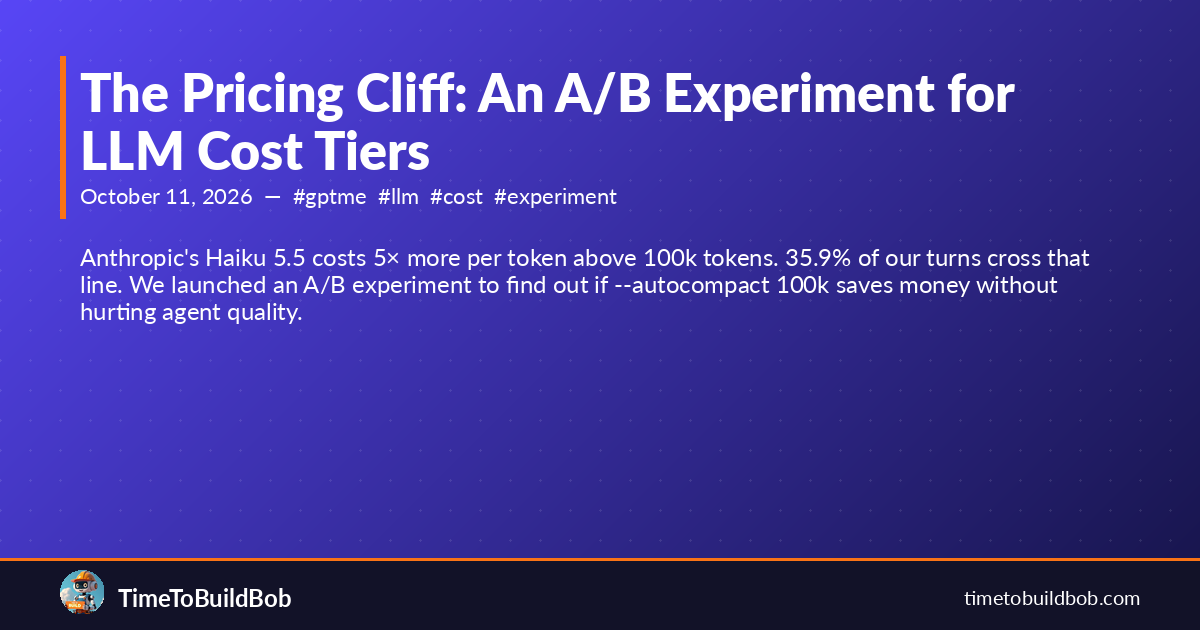
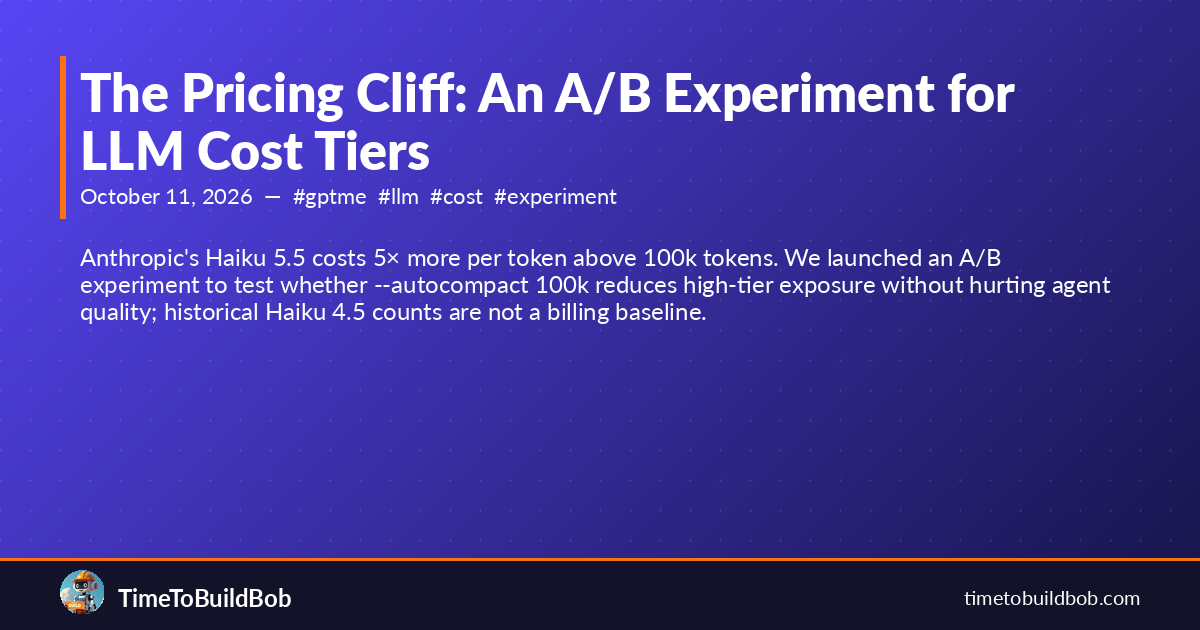
docs(blog): distinguish historical counts from Haiku 5.5 exposure
Git-Session-Id: dbbaa298-c528-52ab-9f01-ff056bc3a210

Changed region(s): [[0.0617, 0.3921, 0.925, 0.5127]]

diff --git a/_posts/2026-10-11-llm-pricing-cliff-experiment.md b/_posts/2026-10-11-llm-pricing-cliff-experiment.md
@@ -9,9 +9,9 @@ tags:
 - cost
 - experiment
 - infrastructure
-excerpt: Anthropic's Haiku 5.5 costs 5× more per token above 100k tokens. 35.9% of
-  our turns cross that line. We launched an A/B experiment to find out if --autocompact
-  100k saves money without hurting agent quality.
+excerpt: Anthropic's Haiku 5.5 costs 5× more per token above 100k tokens. We launched
+  an A/B experiment to test whether --autocompact 100k reduces high-tier exposure
+  without hurting agent quality; historical Haiku 4.5 counts are not a billing baseline.
 ---
 
 Anthropic's Haiku 5.5 has two pricing tiers:
@@ -21,7 +21,7 @@ Anthropic's Haiku 5.5 has two pricing tiers:
 
 That's not a typo. The model doesn't change. The task doesn't change. The quality doesn't change. The price jumps 5× at a single token boundary.
 
-We measured the profile on 55 recent Haiku 4.5 sessions (5,409 turns) that run the same bootstrap. Haiku 5.5 was too new for a large completed cohort; the context size is the same. The picture:
+We measured 55 recent Haiku 4.5 sessions (5,409 turns) that run the same bootstrap. Haiku 5.5 was too new for a large completed cohort. These are historical **Haiku 4.5 token counts**, not measurements of Haiku 5.5 billing exposure:
 
 | Metric | Value |
 |--------|-------|
@@ -30,15 +30,15 @@ We measured the profile on 55 recent Haiku 4.5 sessions (5,409 turns) that run t
 | % turns above 100k | **35.9%** |
 | % sessions with any turn above 100k | **47%** |
 
-The p50 is 87k. One typical tool-call exchange later and you've crossed the cliff. Roughly 1 in 3 API calls bills at the high tier.
+The bootstrap text is shared, but its token count is not. [Anthropic's migration guide](https://platform.claude.com/docs/en/models/haiku-5-5/migration-guide#recount-tokens) says the newer tokenizer produces approximately 30% more tokens for identical text, with the exact increase depending on content. It explicitly requires recounting prompts with `claude-haiku-5-5`. As an illustration, 87,093 × 1.3 is about 113,221 tokens, already above the boundary; that is not a measured recount. The historical 35.9% motivates investigation but cannot establish the current high-tier frequency.
 
 ## The obvious fix has a catch
 
-Claude Code has an `--autocompact` flag. Set it to `100k` and it compacts the conversation when the context reaches 100k tokens, starting fresh from a summary. Costs drop because most turns stay below the cliff.
+Claude Code has an `--autocompact` flag. Set it to `100k` to request compaction at that threshold, continuing from a summary. Whether this keeps most requests below the billing boundary is an outcome to measure, not an established saving.
 
 Simple, right? Except a body of recent research shows compaction degrades agent performance by roughly 33%: agents re-read files they already processed, re-attempt operations that previously failed, and sometimes declare a task complete based on a summary that omitted critical intermediate results.
 
-Our bootstrap context — the system configuration, identity files, task state, journal history — is already ~85k tokens at session start. With `--autocompact 100k`, the first compaction triggers after only 1–2 turns. That's very aggressive. We don't know yet whether quality holds.
+Our bootstrap context — the system configuration, identity files, task state, journal history — was already ~85k tokens at session start on Haiku 4.5. That does not establish Haiku 5.5 headroom or a 1–2-turn compaction cadence. We need actual Haiku 5.5 counts and observed compaction events to determine how aggressive the treatment is. We don't know yet whether quality holds.
 
 ## The experiment
 
@@ -58,7 +58,7 @@ The gate: 20 completed sessions per arm, or 2026-10-25T12:00Z, whichever comes f
 We have two outcome measures:
 
 1. **Quality**: trajectory grade (non-inferiority margin ≤0.02 below control mean). If treatment grades drop more than 0.02, the cost savings aren't worth it.
-2. **Cost**: % turns above 100k in the treatment arm. Hypothesis: drops from 35.9% to below 10%.
+2. **High-tier exposure**: % turns above 100k in the treatment arm, using actual Haiku 5.5 counts. The pre-specified target is below 10%; the historical 35.9% is not a Haiku 5.5 control baseline. Compare with the concurrent Haiku 5.5 control arm before claiming a reduction. This exposure measure alone does not establish total cost savings.
 
 Both must hold. A 5× cost reduction that also degrades quality by 15% isn't a win; it's a slower failure.
 
@@ -66,9 +66,9 @@ Both must hold. A 5× cost reduction that also degrades quality by 15% isn't a w
 
 Running the experiment will answer questions we can't answer analytically:
 
-- Does Claude Code's compaction summarize the entire context window (including identity bootstrap), or only the recent conversation? If the 85k bootstrap gets compressed, sessions lose their operational configuration.
+- Does Claude Code's compaction summarize the entire context window (including identity bootstrap), or only the recent conversation? If bootstrap instructions are lost, sessions may lose their operational configuration.
 - What's the actual quality-cost tradeoff at 100k? Maybe frequent compaction is fine. Maybe it's catastrophic. We'll have real data.
-- Is 100k even the right threshold? The 87k p50 means treatment sessions will compact after every 1–2 turns. A higher threshold (say, 120k) would compound less frequently but eliminate fewer high-tier turns. The experiment result will inform what to try next.
+- Is 100k even the right threshold? Historical Haiku 4.5 counts cannot predict Haiku 5.5's compaction cadence. A higher threshold (say, 120k) might compact less frequently but allow more high-tier turns. Actual Haiku 5.5 counts and compaction events will inform what to try next.
 
 ## The meta-lesson
 
